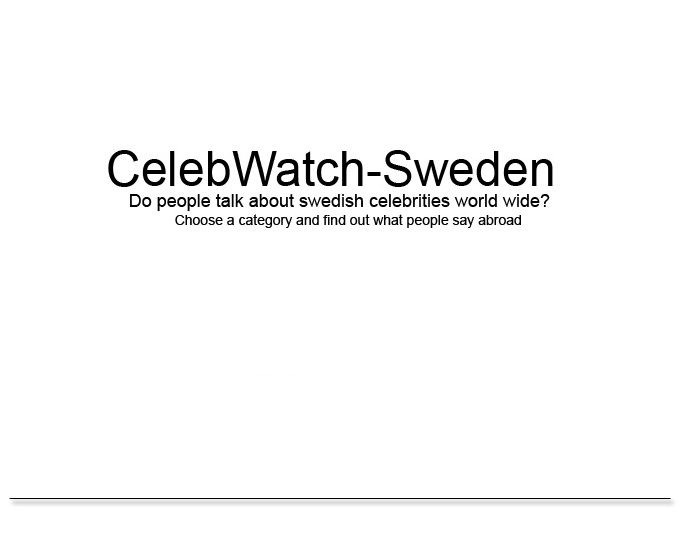
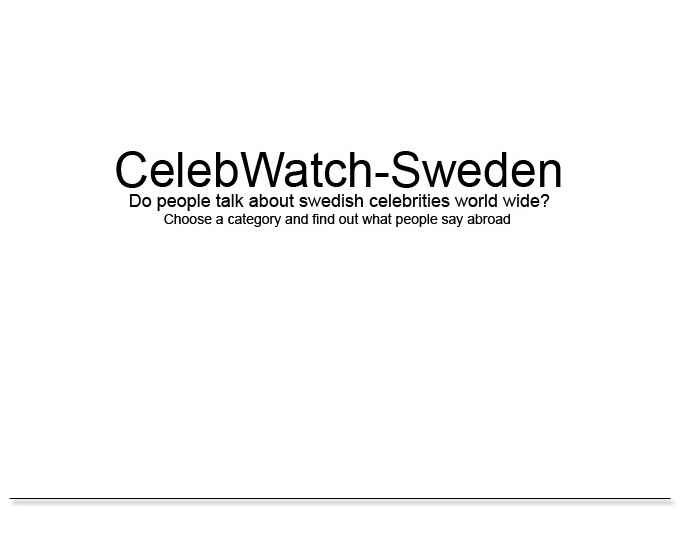
ändrat layout

Changed region(s): [[0.1544, 0.2782, 0.8338, 0.34], [0.2471, 0.3709, 0.7721, 0.4327]]

diff --git a/src/MainPageContainer.java b/src/MainPageContainer.java
@@ -28,6 +28,7 @@ import com.jgoodies.forms.layout.FormLayout;
 import com.jgoodies.forms.layout.ColumnSpec;
 import com.jgoodies.forms.layout.RowSpec;
 import net.miginfocom.swing.MigLayout;
+import javax.swing.Box;
 
 
 public class MainPageContainer extends JFrame {
@@ -37,6 +38,7 @@ public class MainPageContainer extends JFrame {
 	JButton Entertainment;
 	JButton Politics;
 	JButton Sports;
+	JButton CelebWatch;
 	private int PressedButton = 0;
 	private JPanel sidepanel1;
 	private Table t;
@@ -161,7 +163,7 @@ public class MainPageContainer extends JFrame {
 		celebInfoPanel.setBorder(new BevelBorder(BevelBorder.RAISED, null, null, null, null));
 		celebInfoPanel.setBackground(Color.WHITE);
 		celebInfoPanel.setForeground(Color.WHITE);
-		celebInfoPanel.setBounds(10, 65, 400, 127);
+		celebInfoPanel.setBounds(10, 61, 400, 127);
 		contentPane.add(celebInfoPanel);
 		celebInfoPanel.setLayout(new GridLayout(1, 0, 0, 0));
 		
@@ -205,7 +207,7 @@ public class MainPageContainer extends JFrame {
 		Entertainment.setBorderPainted(false);
 		Entertainment.setBackground(Color.WHITE);
 		Entertainment.setAlignmentY(0.0f);
-		Entertainment.setBounds(10, 10, 110, 40);
+		Entertainment.setBounds(314, 7, 110, 40);
 		contentPane.add(Entertainment);
 		
 		/* Politics button */
@@ -235,7 +237,7 @@ public class MainPageContainer extends JFrame {
 		Politics.setBorderPainted(false);
 		Politics.setBackground(Color.WHITE);
 		Politics.setAlignmentY(0.0f);
-		Politics.setBounds(120, 10, 110, 40);
+		Politics.setBounds(434, 7, 110, 40);
 		contentPane.add(Politics);
 		
 		/*Sportsbutton*/
@@ -259,12 +261,19 @@ public class MainPageContainer extends JFrame {
 		Sports.setBorderPainted(false);
 		Sports.setBackground(Color.WHITE);
 		Sports.setAlignmentY(0.0f);
-		Sports.setBounds(230, 10, 110, 40);
+		Sports.setBounds(554, 7, 110, 40);
 		contentPane.add(Sports);
 		
 		/*MainWindow layout*/
+		
+		CelebWatch = new JButton("");
+		CelebWatch.setBorderPainted(false);
+		CelebWatch.setForeground(Color.WHITE);
+		CelebWatch.setIcon(new ImageIcon(MainPageContainer.class.getResource("/images/text.jpg")));
+		CelebWatch.setBounds(10, 5, 260, 40);
+		contentPane.add(CelebWatch);
 		JLabel MainCelebwatch = new JLabel("");
-		MainCelebwatch.setBounds(0, 0, 680, 550);
+		MainCelebwatch.setBounds(0, 0, 674, 544);
 		contentPane.add(MainCelebwatch);
 		MainCelebwatch.setForeground(Color.WHITE);
 		MainCelebwatch.setFont(new Font("Arial", Font.PLAIN, 12));

diff --git a/src/EntryPageContainer.java b/src/EntryPageContainer.java
@@ -39,6 +39,7 @@ public class EntryPageContainer extends JFrame {
 		
 		/*Entertainment Button*/
 		final JButton Entertainment = new JButton("Entertainment");
+		Entertainment.setVerticalAlignment(SwingConstants.TOP);
 		Entertainment.addActionListener(new ActionListener() {
 			public void actionPerformed(ActionEvent arg0) {
 					JFrame MPC = new MainPageContainer();
@@ -72,11 +73,12 @@ public class EntryPageContainer extends JFrame {
 		Entertainment.setForeground(Color.WHITE);
 		Entertainment.setBackground(Color.WHITE);
 		Entertainment.setFont(new Font("Arial", Font.BOLD, 12));
-		Entertainment.setBounds(250, 280, 112, 40);
+		Entertainment.setBounds(153, 254, 112, 40);
 		contentPane.add(Entertainment);
 		
 		/*Politics Button*/
 		final JButton Politics = new JButton("");
+		Politics.setVerticalAlignment(SwingConstants.TOP);
 		
 		/**Dispabled functionality of Politics button since there are no celebs put in this cathegory**/
 		/*/Politics.addActionListener(new ActionListener() {
@@ -112,11 +114,12 @@ public class EntryPageContainer extends JFrame {
 		Politics.setBorderPainted(false);
 		Politics.setBackground(Color.WHITE);
 		Politics.setAlignmentY(0.0f);
-		Politics.setBounds(360, 320, 110, 40);
+		Politics.setBounds(289, 254, 110, 40);
 		contentPane.add(Politics);
 		
 		/*SportsButton*/
 		final JButton Sports = new JButton("");
+		Sports.setVerticalAlignment(SwingConstants.TOP);
 		Sports.addActionListener(new ActionListener() {
 			public void actionPerformed(ActionEvent arg0) {
 				JFrame MPC = new MainPageContainer();
@@ -147,14 +150,14 @@ public class EntryPageContainer extends JFrame {
 		Sports.setBorderPainted(false);
 		Sports.setBackground(Color.WHITE);
 		Sports.setAlignmentY(0.0f);
-		Sports.setBounds(470, 360, 110, 40);
+		Sports.setBounds(409, 255, 110, 40);
 		contentPane.add(Sports);
 		
 		/*Panel for BG image
 		 * */JLabel lblCelebwatchSweden = new JLabel("");
 		lblCelebwatchSweden.setBorder(null);
 		lblCelebwatchSweden.setBackground(Color.WHITE);
-		lblCelebwatchSweden.setIcon(new ImageIcon(EntryPageContainer.class.getResource("/images/firstpage1.jpg")));
+		lblCelebwatchSweden.setIcon(new ImageIcon(EntryPageContainer.class.getResource("/images/firstpage2.jpg")));
 		lblCelebwatchSweden.setHorizontalAlignment(SwingConstants.TRAILING);
 		lblCelebwatchSweden.setBounds(0, 0, 680, 550);
 		contentPane.add(lblCelebwatchSweden);
